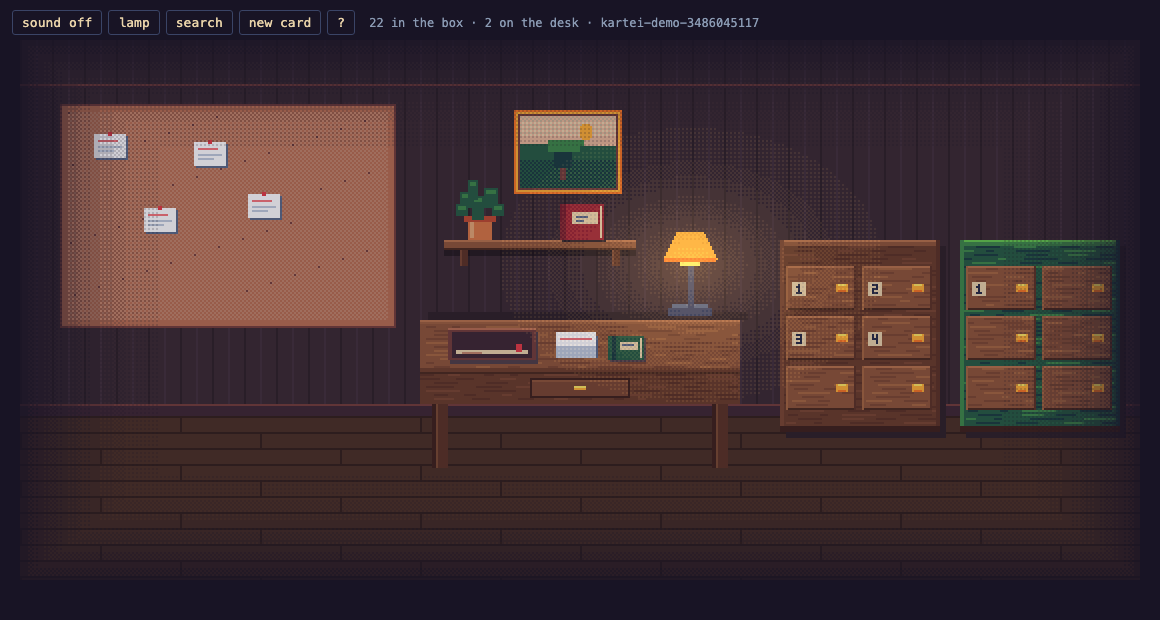
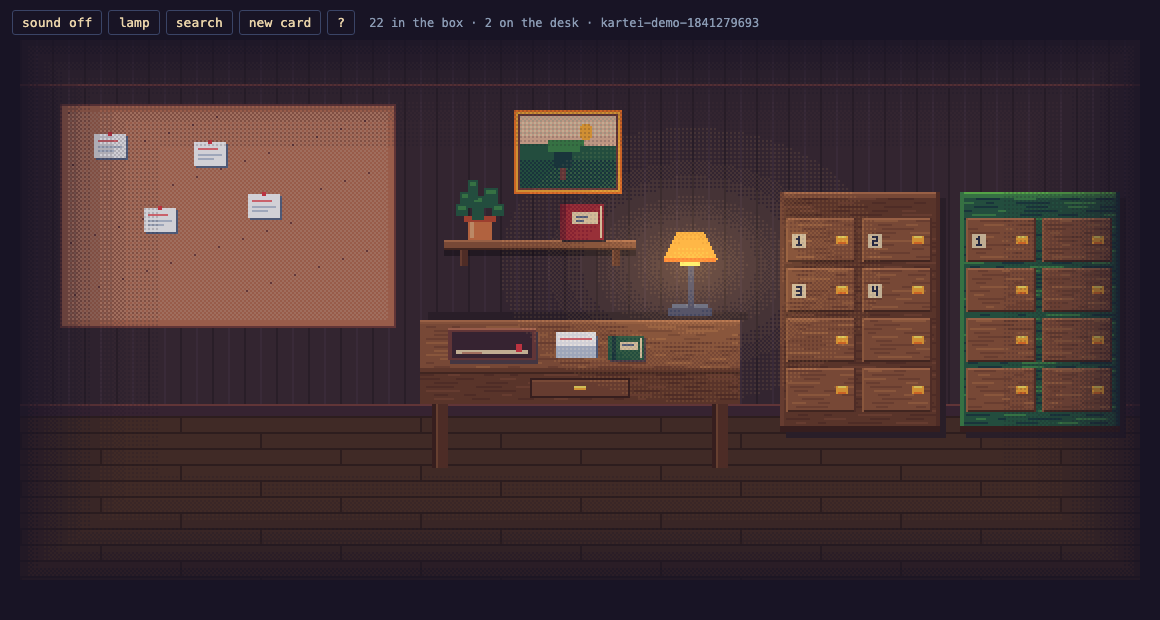
Drawers pack whole branches; eight-drawer boxes; quieter notifications
Small branches share a drawer and a branch bigger than a drawer spills into
parts, so the box count follows card count rather than root count. Boxes
show eight drawers. Toasts only for errors and filing results; read-time
warnings moved into the contents panel.

Changed region(s): [[0.6517, 0.3065, 0.9621, 0.7048], [0.5897, 0.0306, 0.6517, 0.0613]]

diff --git a/ui/app.js b/ui/app.js
@@ -3,7 +3,7 @@
 import { Room, BOARD } from './room.js';
 import { Panel, esc, mini, addrChip, renderBody } from './panel.js';
 import { sound } from './sound.js';
-import { DESK_SPACE } from './art.js';
+import { DESK_SPACE, BOX_DRAWERS } from './art.js';
 import { api } from './api.js';
 
 class App {
@@ -32,7 +32,6 @@ class App {
     const filed = this.model.notes.filter((n) => n.filed).length;
     const hud = document.getElementById('hud-status');
     hud.textContent = `${filed} in the box · ${this.model.unfiled.length} on the desk · ${this.model.root.split('/').pop()}`; hud.title = this.model.root;
-    if (this.model.warnings.length && !this.warned) { this.warned = true; this.toast(`${this.model.warnings.length} warning${this.model.warnings.length === 1 ? '' : 's'} while reading the box (broken links, cycles). Nothing was changed.`); }
     return this.model;
   }
 
@@ -85,9 +84,7 @@ class App {
     const { page, pages } = this.room.nextPage(box);
     if (pages <= 1) { this.openDrawers(); return; }
     sound.drawer(); this.room.closeDrawer();
-    const count = (box === 'main' ? this.room.mainDrawers : this.room.litDrawers).length;
-    const first = page * 6 + 1, last = Math.min(first + 5, count);
-    this.toast(`${box === 'main' ? 'Slip box' : 'Literature box'} ${page + 1} of ${pages}: drawers ${first} to ${last}`, 'ok');
+    this.tooltip(this.room.objects().find((o) => o.kind === (box === 'main' ? 'slipbox' : 'litbox')));
   }
   openDrawers() {
     this.room.highlight = 'slipbox'; this.room.panToObject('slipbox'); this.room.closeDrawer();
@@ -157,7 +154,7 @@ class App {
       else n = await api.newNote(title, body, parent || '');
       sound.save();
       await this.load();
-      this.toast(id ? 'Card updated' : parent ? `Filed behind ${esc(this.byId.get(parent)?.address || '')} as ${n.address}` : 'On the desk. File it when you know where it belongs.', 'ok');
+      if (!id) this.toast(parent ? `Filed behind ${esc(this.byId.get(parent)?.address || '')} as ${n.address}` : 'On the desk. File it when you know where it belongs.', 'ok');
       this.openCard(n.id);
     } catch (e) {
       if (e.status === 409 && e.data?.conflict) { this.conflict({ id, title, body, seen }, e.data.disk); return; }
@@ -172,7 +169,7 @@ class App {
       <h3 style="font:600 11px var(--mono);color:var(--ink-2);text-transform:uppercase">Yours, unsaved</h3><pre>${esc(mine.body)}</pre>
       <div class="actions"><button class="primary" data-c="mine">Keep mine</button><button data-c="theirs">Keep the disk version</button><button data-c="both">Keep both</button></div></div>`);
     this.overlay.querySelector('[data-c="mine"]').onclick = () => { this.closeOverlay(); this.saveCard(mine, true); };
-    this.overlay.querySelector('[data-c="theirs"]').onclick = async () => { this.closeOverlay(); await this.load(); this.openCard(mine.id); this.toast('Kept the disk version', 'ok'); };
+    this.overlay.querySelector('[data-c="theirs"]').onclick = async () => { this.closeOverlay(); await this.load(); this.openCard(mine.id); };
     this.overlay.querySelector('[data-c="both"]').onclick = async () => {
       this.closeOverlay();
       try { await api.newNote(mine.title + ' (my version)', mine.body, ''); await this.load(); this.openCard(mine.id); this.toast('Kept the disk version; yours is a new card on the desk', 'ok'); } catch (e) { this.toast(e.message); }
@@ -211,7 +208,7 @@ class App {
     const terms = this.model.register.map((e) => e.term);
     const term = await this.ask({ title: 'Enter in the register', text: 'Under which term, in your own words?', placeholder: 'term', suggestions: terms, ok: 'Enter' });
     if (!term) return;
-    try { await api.registerAdd(term, id); sound.paper(); await this.load(); this.panel.refresh(); this.toast(`In the register under "${esc(term)}"`, 'ok'); } catch (e) { this.toast(e.message); }
+    try { await api.registerAdd(term, id); sound.paper(); await this.load(); this.panel.refresh(); } catch (e) { this.toast(e.message); }
   }
   async registerAddTerm(term) {
     try { await api.registerAdd(term); await this.load(); this.panel.refresh(); } catch (e) { this.toast(e.message); }
@@ -367,7 +364,7 @@ class App {
     const b = this.model.boards.find((x) => x.id === bid);
     const n = b.cards.length;
     const x = 40 + (n % 4) * 280 + (n * 13) % 30, y = 40 + Math.floor(n / 4) * 240 % (BOARD.h - 120);
-    try { await api.pin(bid, id, x, y); sound.pin(); await this.load(); this.activeBoard = bid; this.room.setModel(this.model, bid); this.panel.refresh(); this.toast(`Pinned to ${b.name}. It stays in its drawer.`, 'ok'); }
+    try { await api.pin(bid, id, x, y); sound.pin(); await this.load(); this.activeBoard = bid; this.room.setModel(this.model, bid); this.panel.refresh(); }
     catch (e) { this.toast(e.message); }
   }
   async movePin(bid, id, x, y) { try { await api.pin(bid, id, x, y); sound.pin(); await this.load(); this.room.setModel(this.model, bid); } catch (e) { this.toast(e.message); } }
@@ -426,7 +423,7 @@ class App {
   }
   help() {
     this.sheet(`<h2>The study</h2>
-      <p><b>The desk</b> is the inbox: a card you write from the pad, or in any other editor, lies there with no address. <b>Filing</b> puts it in the box: choose the card it sits <i>behind</i> (a branch off it) or <i>after</i> (next in its line). That decision gives it an address like 2b1 and a drawer, and clears it from the desk. <b>Drawers</b> are one per branch; click one to open it. <b>Links</b> in the text say what a card mentions, filing says where it grew from. The <b>ledger</b> is your register: a term, then the drawers where it lives. The <b>corkboard</b> pins references for a project.</p>
+      <p><b>The desk</b> is the inbox: a card you write from the pad, or in any other editor, lies there with no address. <b>Filing</b> puts it in the box: choose the card it sits <i>behind</i> (a branch off it) or <i>after</i> (next in its line). That decision gives it an address like 2b1 and a drawer, and clears it from the desk. <b>Drawers</b> fill in address order, a whole branch at a time; click one to open it. <b>Links</b> in the text say what a card mentions, filing says where it grew from. The <b>ledger</b> is your register: a term, then the drawers where it lives. The <b>corkboard</b> pins references for a project.</p>
       <table>
         <tr><td><kbd>/</kbd></td><td>search</td><td><kbd>n</kbd></td><td>new card</td></tr>
         <tr><td><kbd>s</kbd></td><td>slip box</td><td><kbd>b</kbd></td><td>corkboard</td></tr>
@@ -442,7 +439,7 @@ class App {
     const host = document.getElementById('toasts');
     while (host.children.length >= 3) host.firstChild.remove();
     host.appendChild(t);
-    setTimeout(() => t.remove(), 3600);
+    setTimeout(() => t.remove(), 2800);
   }
 
   // --- prefs ---

diff --git a/ui/panel.js b/ui/panel.js
@@ -92,11 +92,12 @@ export class Panel {
     const last = m.prefs?.lastDrawer;
     return `<div class="panel-top"><h2>Contents</h2>${this.close()}</div>
       <div class="meta">${total} cards filed · ${m.drawers.length} drawer${m.drawers.length === 1 ? '' : 's'} · ${m.settings.drawerSize} cards per drawer</div>
+      ${m.warnings.length ? `<div class="meta">${m.warnings.length} warning${m.warnings.length === 1 ? '' : 's'} while reading the box (broken links, cycles). Nothing was changed.</div>` : ''}
       ${m.incomplete ? '<div class="warn">This folder looks incomplete (many placed cards are missing). Nothing will be rewritten until it looks whole again.</div>' : ''}
       ${m.unfiled.length ? `<div class="banner">${m.unfiled.length} card${m.unfiled.length === 1 ? ' is' : 's are'} on the desk, not yet in the box. <a class="wl" data-act="desk">See them</a>.</div>` : ''}
       ${m.boxes.map((b) => { const ds = m.drawers.filter((d) => d.box === b.id && !d.unsorted); return `<div class="boxhead">${esc(b.name)}${b.prefix ? ` · addresses ${esc(b.prefix)}1, ${esc(b.prefix)}1a…` : ''}</div>` + (ds.map((d) => `<div class="drawer-front" data-drawer="${d.index}"><span class="label">${esc(d.label)}</span><span class="count">${d.ids.length} card${d.ids.length === 1 ? '' : 's'}${last === d.index ? ' · last opened' : ''}</span></div>`).join('') || '<p class="empty">Empty. File a card as a new branch here to start it.</p>'); }).join('')}
       ${m.drawers.filter((d) => d.unsorted).map((d) => `<div class="boxhead">Unsorted</div><div class="drawer-front unsorted" data-drawer="${d.index}"><span class="label">${esc(d.label)}</span><span class="count">${d.ids.length} card${d.ids.length === 1 ? '' : 's'}</span></div>`).join('')}
-      <p class="empty" style="margin-top:14px">${m.settings.drawerRule === 'address-range' ? 'Drawers are chunks of one continuous sequence, not topics.' : 'One drawer per branch. A branch that outgrows its drawer spills into the next.'}</p>`;
+      <p class="empty" style="margin-top:14px">${m.settings.drawerRule === 'address-range' ? 'Drawers are chunks of one continuous sequence, not topics.' : 'Drawers fill in address order, a whole branch at a time. Small branches share a drawer; one that outgrows a drawer spills into the next.'}</p>`;
   }
 
   drawer(i) {
@@ -106,7 +107,7 @@ export class Panel {
     const byId = this.app.byId;
     return `${this.crumbs([{ text: 'Slip box', act: 'drawers' }, { text: drawerName(d, m) }])}
       <div class="panel-top"><h2>${esc(d.unsorted ? 'Unsorted' : d.label)}</h2>${this.close()}</div>
-      <div class="meta">${d.ids.length} card${d.ids.length === 1 ? '' : 's'}${d.first ? ` · ${esc(d.first)} to ${esc(d.last)}` : ''}${d.unsorted ? ' · guests and damaged notes live here until adopted' : ''}</div>
+      <div class="meta">${d.ids.length} card${d.ids.length === 1 ? '' : 's'}${d.roots > 1 ? ` · ${d.roots} branches` : ''}${d.first ? ` · ${esc(d.first)} to ${esc(d.last)}` : ''}${d.unsorted ? ' · guests and damaged notes live here until adopted' : ''}</div>
       <div class="fan">${d.ids.map((id) => mini(byId.get(id))).join('') || '<p class="empty">Empty drawer.</p>'}</div>`;
   }
 

diff --git a/ui/art.js b/ui/art.js
@@ -32,8 +32,8 @@ export const L = {
   lamp:    { x: 318, y: 96,  w: 34,  h: 44 },
   lampGlow: { x: 335, y: 112 },
   ledger:  { x: 294, y: 148, w: 18,  h: 12 },   // the register: your own index of terms
-  boxMain: { x: 380, y: 100, w: 80,  h: 96 },   // the slip box for notes, on the floor against the wall
-  boxLit:  { x: 470, y: 100, w: 80,  h: 96 },   // the slip box for literature, green
+  boxMain: { x: 380, y: 76,  w: 80,  h: 120 },  // the slip box for notes, on the floor against the wall
+  boxLit:  { x: 470, y: 76,  w: 80,  h: 120 },  // the slip box for literature, green
 };
 
 // Desk-card positions are stored in this logical space (the old room desk,
@@ -248,11 +248,11 @@ export function drawDigits(ctx, x, y, text, color) {
 }
 export const digitsWidth = (text) => String(text).length * 4 - 1;
 
-// A slip box: a fixed card-index box with six drawer fronts, two across and
-// three down. Past six drawers the archive is more boxes: page k shows
-// drawers 6k..6k+5, and pips on the lid say which box you are looking at.
+// A slip box: a fixed card-index box with eight drawer fronts, two across and
+// four down. Past eight drawers the archive is more boxes: page k shows the
+// next eight, and pips on the lid say which box you are looking at.
 // Returns the drawer rects so each front is clickable.
-export const BOX_DRAWERS = 6;
+export const BOX_DRAWERS = 8;
 export const boxPages = (n) => Math.max(1, Math.ceil(n / BOX_DRAWERS));
 export function drawSlipbox(ctx, r, drawers, page, openSlot, openAmt, highlight, green) {
   const pages = boxPages(drawers.length);

diff --git a/internal/slipbox/drawer.go b/internal/slipbox/drawer.go
@@ -5,10 +5,13 @@ import (
 	"sort"
 )
 
-// Drawer rules. "branch" gives every root branch its own drawer, so the
-// drawer answers "where is it". "address-range" chunks the whole sequence
-// into equal drawers, which is how Luhmann's boxes actually worked: a drawer
-// is a stretch of the sequence, not a topic.
+// Drawer rules. "branch" fills drawers in address order a whole branch at a
+// time: small branches share a drawer, a branch never straddles two drawers
+// unless it alone is bigger than one, and then it spills into parts. So a
+// drawer answers "where is it" without the drawer count tracking the root
+// count. "address-range" chunks the whole sequence into equal drawers, which
+// is how Luhmann's boxes actually worked: a drawer is a stretch of the
+// sequence, not a topic.
 const (
 	RuleBranch = "branch"
 	RuleRange  = "address-range"
@@ -21,8 +24,9 @@ type Drawer struct {
 	Box      string `json:"box"`
 	Number   int    `json:"number"` // 1-based within its box; 0 for Unsorted
 	Label    string `json:"label"`
-	Title    string `json:"title"` // the root's title (branch rule) or the range
-	Root     ID     `json:"root"`
+	Title    string `json:"title"` // the first root's title (branch rule) or the range
+	Root     ID     `json:"root"`  // the first root in the drawer
+	Roots    int    `json:"roots"` // how many branches share the drawer
 	Part     int    `json:"part"`
 	Parts    int    `json:"parts"`
 	First    string `json:"first"`
@@ -48,15 +52,18 @@ func deriveDrawers(notes map[ID]*Note, d derived, boxes []Box, rule string, size
 	var drawers []Drawer
 	for _, box := range boxes {
 		number := 0
-		add := func(title string, root ID, parts [][]ID) {
+		add := func(title string, root ID, roots int, parts [][]ID) {
 			for i, ids := range parts {
 				number++
 				dr := Drawer{
-					Index: len(drawers), Box: box.ID, Number: number, Title: title, Root: root,
+					Index: len(drawers), Box: box.ID, Number: number, Title: title, Root: root, Roots: roots,
 					Part: i + 1, Parts: len(parts), First: d.addr[ids[0]], Last: d.addr[ids[len(ids)-1]],
 					IDs: cloneSlice(ids),
 				}
 				dr.Label = fmt.Sprintf("%d · %s", number, title)
+				if roots > 1 {
+					dr.Label += fmt.Sprintf(" + %d more", roots-1)
+				}
 				if len(parts) > 1 {
 					dr.Label += fmt.Sprintf(" (%d of %d)", dr.Part, dr.Parts)
 				}
@@ -72,9 +79,19 @@ func deriveDrawers(notes map[ID]*Note, d derived, boxes []Box, rule string, size
 			}
 			sort.Slice(sorted, func(i, j int) bool { return CompareAddress(d.addr[sorted[i]], d.addr[sorted[j]]) < 0 })
 			for _, ids := range chunk(sorted, size) {
-				add(fmt.Sprintf("%s – %s", d.addr[ids[0]], d.addr[ids[len(ids)-1]]), "", [][]ID{ids})
+				add(fmt.Sprintf("%s – %s", d.addr[ids[0]], d.addr[ids[len(ids)-1]]), "", 0, [][]ID{ids})
 			}
 		} else {
+			// Pack whole branches into drawers in address order.
+			var cur []ID
+			var curRoot ID
+			curRoots := 0
+			flush := func() {
+				if len(cur) > 0 {
+					add(notes[curRoot].Title, curRoot, curRoots, [][]ID{cur})
+				}
+				cur, curRoot, curRoots = nil, "", 0
+			}
 			for _, root := range d.roots[box.ID] {
 				var branch []ID
 				var walk func(id ID)
@@ -85,8 +102,21 @@ func deriveDrawers(notes map[ID]*Note, d derived, boxes []Box, rule string, size
 					}
 				}
 				walk(root)
-				add(notes[root].Title, root, chunk(branch, size))
+				if len(branch) > size { // too big for any drawer: its own parts
+					flush()
+					add(notes[root].Title, root, 1, chunk(branch, size))
+					continue
+				}
+				if len(cur)+len(branch) > size {
+					flush()
+				}
+				if len(cur) == 0 {
+					curRoot = root
+				}
+				cur = append(cur, branch...)
+				curRoots++
 			}
+			flush()
 		}
 		if number == 0 && box.ID == boxes[0].ID {
 			drawers = append(drawers, Drawer{Index: len(drawers), Box: box.ID, Number: 1, Label: "1 · Empty", Title: "Empty", IDs: []ID{}})

diff --git a/internal/slipbox/drawer_test.go b/internal/slipbox/drawer_test.go
@@ -5,25 +5,26 @@ import (
 	"testing"
 )
 
-func TestDrawersAreBranches(t *testing.T) {
+func TestDrawersPackWholeBranches(t *testing.T) {
 	v := openFixture(t, "fixture-small")
+	// three small branches (5, 4 and 3 cards) share one drawer at the default size
 	ds := v.Drawers()
-	if len(ds) != 3 {
-		t.Fatalf("expected one drawer per branch, got %d: %+v", len(ds), ds)
+	if len(ds) != 1 || ds[0].Label != "1 · Systems fail under load + 2 more" || ds[0].Roots != 3 || ds[0].First != "1" || ds[0].Last != "3b" || len(ds[0].IDs) != 12 {
+		t.Fatalf("packed drawer: %+v", ds)
 	}
-	if ds[0].Label != "1 · Systems fail under load" || ds[1].Label != "2 · Luhmann on selection" || ds[2].Label != "3 · Notes on redundancy" {
-		t.Fatalf("labels: %q %q %q", ds[0].Label, ds[1].Label, ds[2].Label)
-	}
-	if ds[0].Number != 1 || ds[0].Root != "20240101T100000" || ds[0].First != "1" || ds[0].Last != "1b2" {
-		t.Fatalf("drawer 1: %+v", ds[0])
-	}
-	if !reflect.DeepEqual(ds[0].IDs, []ID{"20240101T100000", "20240105T100000", "20240102T100000", "20240103T100000", "20240104T100000"}) {
+	if ds[0].Root != "20240101T100000" || !reflect.DeepEqual(ds[0].IDs[:5], []ID{"20240101T100000", "20240105T100000", "20240102T100000", "20240103T100000", "20240104T100000"}) {
 		t.Fatalf("drawer 1 order = %v", ds[0].IDs)
 	}
-	// a branch that outgrows a drawer spills into a second part
+	// a drawer of five: the first branch fills it, the next two share the second
+	v.SetSettings(Settings{DrawerRule: RuleBranch, DrawerSize: 5})
+	ds = v.Drawers()
+	if len(ds) != 3 || ds[0].Label != "1 · Systems fail under load" || ds[1].Label != "2 · Luhmann on selection" || ds[2].Label != "3 · Notes on redundancy" {
+		t.Fatalf("size 5: %+v", ds)
+	}
+	// a branch that outgrows a drawer spills into parts, never straddling another branch
 	v.SetSettings(Settings{DrawerRule: RuleBranch, DrawerSize: 3})
 	ds = v.Drawers()
-	if len(ds) != 5 || ds[0].Parts != 2 || ds[1].Part != 2 || ds[1].Label != "2 · Systems fail under load (2 of 2)" || ds[2].Label != "3 · Luhmann on selection (1 of 2)" {
+	if len(ds) != 5 || ds[0].Parts != 2 || ds[1].Part != 2 || ds[1].Label != "2 · Systems fail under load (2 of 2)" || ds[2].Label != "3 · Luhmann on selection (1 of 2)" || ds[4].Label != "5 · Notes on redundancy" {
 		t.Fatalf("spill: %+v", ds)
 	}
 	for _, d := range ds {

diff --git a/internal/slipbox/doc.go b/internal/slipbox/doc.go
@@ -17,7 +17,7 @@
 //     structure stored; everything else is derived.
 //   - An address (1b3, or L2a in the literature box) is derived from the tree
 //     at load time and never written anywhere but _index.md.
-//   - A drawer is a physical chunk of a box: one per root branch by default,
+//   - A drawer is a physical chunk of a box: filled a whole branch at a time by default,
 //     or equal chunks of the address sequence under the address-range rule.
 //   - Links are [[wikilinks]] in the body, written by the user, resolved by
 //     ID, slug, title or address. They cross boxes freely.

diff --git a/cmd/kartei/demo.go b/cmd/kartei/demo.go
@@ -108,7 +108,7 @@ func seedDemo(dir string) error {
 			{Term: "load", Targets: []slipbox.ID{ids[5], ids[9]}, Note: "systems under stress"},
 			{Term: "Luhmann", Targets: []slipbox.ID{ids[22], ids[23], ids[19]}, Note: ""},
 		},
-		"settings": slipbox.Settings{DrawerRule: slipbox.RuleBranch, DrawerSize: 60, DeskCapacity: 12},
+		"settings": slipbox.Settings{DrawerRule: slipbox.RuleBranch, DrawerSize: 5, DeskCapacity: 12}, // five a drawer, so the demo shows one drawer per branch
 		"prefs":    map[string]any{"lamp": true},
 	}
 	data, err := jsonIndent(st)

diff --git a/internal/slipbox/vault_test.go b/internal/slipbox/vault_test.go
@@ -153,7 +153,7 @@ func TestLiteratureBox(t *testing.T) {
 			main++
 		}
 	}
-	if lit != 1 || main != 3 {
+	if lit != 1 || main != 1 { // three small main branches share one drawer
 		t.Fatalf("drawers per box: lit %d main %d", lit, main)
 	}
 	// moving a card from one box to the other renumbers both root lists

diff --git a/SPEC.md b/SPEC.md
@@ -165,9 +165,11 @@ and still lives in its drawer.
   Siblings by `order`, then ID. Natural sort (`1a9` before `1a10`). Cycles are
   broken by promoting the lowest ID to a root, with a warning. An entry whose
   parent is missing makes the note a root.
-- **Drawers:** `settings.drawerRule` chooses. `branch` (default): one drawer
-  per root branch, in address order, numbered on the front and titled by the
-  root; a branch past `drawerSize` spills into consecutive parts.
+- **Drawers:** `settings.drawerRule` chooses. `branch` (default): drawers fill
+  in address order a whole branch at a time, up to `drawerSize` cards; small
+  branches share a drawer, and a branch bigger than a drawer spills into
+  consecutive parts on its own. Titled by the first root, with "+ n more"
+  when branches share.
   `address-range`: the whole sequence chunked into equal drawers, Luhmann's
   non-topical boxes, for those who want them. Guests and damaged notes go to
   a final Unsorted drawer. Drawer identity is positional and never persisted.
@@ -205,7 +207,7 @@ and still lives in its drawer.
   for 2s, an empty read is never a deletion, a rename that keeps the ID keeps
   every placement. One changed file reparses one file.
 - **Stage** (derived): drawer count 1 → box, 2–3 → double, 4–9 → cabinet, 10+
-  → wall. Informational; the room draws boxes of six drawers instead (§7).
+  → wall. Informational; the room draws boxes of eight drawers instead (§7).
 - **Rediscover** (derived): one card a day, deterministic, chosen from cards
   not on the desk or any board. Empty if fewer than three notes.
 
@@ -261,7 +263,7 @@ pan. Text is never pixel art: the panel is DOM.
 
 | Surface | Meaning | Rules |
 |---|---|---|
-| **Slip box** | The archive | A wooden card-index box with six drawer fronts, two across and three down, standing against the wall right of the desk. Each front carries its drawer number and nothing else; click it and it slides open. Past six drawers the archive is more boxes: click the box body to turn to the next, and pips on the lid say which of how many is showing. Opening a drawer from the panel turns to its box. |
+| **Slip box** | The archive | A wooden card-index box with eight drawer fronts, two across and four down, standing against the wall right of the desk. Each front carries its drawer number and nothing else; click it and it slides open. Past eight drawers the archive is more boxes: click the box body to turn to the next, and pips on the lid say which of how many is showing. Opening a drawer from the panel turns to its box. |
 | **Literature box** | The second box | A green box beside the first, same fronts, same pages. Sources go here as roots (`L1`), excerpts behind them. |
 | **Desk** | The inbox | A tray holding the unfiled cards as one stack (red tab: a card slipped out today; orange pip: past the cap), a stack of blank cards, the register, the lamp. Click the desk or the tray for the top-down view, where the cards are laid out in full; drag them where you like and positions persist. |
 | **Blank cards** | New card | A fresh card lands on the desk unfiled. No address until it is filed. |
@@ -283,7 +285,7 @@ there by a decision about what it relates to.
 
 ### Game loops
 
-1. **Growth.** Past six drawers the slip box becomes a stack of boxes, shown
+1. **Growth.** Past eight drawers the slip box becomes a stack of boxes, shown
    as pips on the lid. Free, because drawers are derived. Later: objects and
    themes unlock by cards filed and days active, never by time spent.
 2. **Rediscovery.** The box surfaces an old card. This is the real value of a
@@ -368,8 +370,9 @@ building this". If a picture of the idea gets shrugs, the app will too.
 - Should writing behind a card also be a two-step (write, then file), for
   consistency with the pad? Current answer: no, pulling the card was the choice.
 - Deferred trust feature, next in line: per-card history with restore.
-- Drawers as branches nudge toward a root per subject. Watch whether users
-  create many roots; the address-range rule is the fallback.
+- Drawers now pack whole branches, so the box count follows card count
+  rather than root count. Watch whether "+ n more" drawers feel like topics
+  or like stretches; the address-range rule is still the fallback.
 - Does pulling a second card replace the first in the panel (current) or lay
   beside it as a trail across the desk?
 - Default `drawerSize` beyond 60. Real use will take months to fill a
@@ -394,5 +397,5 @@ building this". If a picture of the idea gets shrugs, the app will too.
 | **Register** | User-written index of terms to cards |
 | **Guest** | A file in the vault the app did not create |
 | **Damaged** | A note whose frontmatter failed to parse. Shown, never rewritten |
-| **Stage** | The engine's size class for the main box (box, double, cabinet, wall); the room shows boxes of six drawers instead |
+| **Stage** | The engine's size class for the main box (box, double, cabinet, wall); the room shows boxes of eight drawers instead |
 | **Sidecar** | `.kartei/state.json`: all structure, placement and UI traces |

diff --git a/README.md b/README.md
@@ -8,8 +8,6 @@ editable in any other tool, and the room updates as you save.
 
 ![The study by day: corkboard, desk with the inbox tray, two slip boxes](docs/screenshots/room.png)
 
-![The same room at night, lit by the lamp](docs/screenshots/room-night.png)
-
 `SPEC.md` is the current design. `docs/UI-GUIDE.md` is the contract for
 anyone building another front end on the engine.
 
@@ -101,7 +99,7 @@ lies here with a red tab. "Put it away" hides it until tomorrow.
 
 | Object | What it does |
 |---|---|
-| Slip box | Six numbered drawers to a box. Past six the archive is more boxes: click the box to turn to the next; pips on the lid say which one is showing. Click a drawer to open it. |
+| Slip box | Eight numbered drawers to a box. Past eight the archive is more boxes: click the box to turn to the next; pips on the lid say which one is showing. Click a drawer to open it. |
 | Literature box | The green box beside it, for sources (`L1`) and their excerpts (`L1a`). Works the same way. |
 | Inbox tray | The unfiled cards as one stack. Red tab: a card slipped out today. Orange pip: past twelve. Click for the desk view. |
 | Blank cards | A new card. |
@@ -145,8 +143,9 @@ If you have never kept a slip box, this is the idea in six points.
 3. **Filing is not linking.** The tree says where a card *grew from*. A
    `[[link]]` in the text says what it *mentions*, anywhere in either box.
    Links are written by ID, so they survive renames and refiling.
-4. **Drawers.** One per branch, numbered on the front. A branch that outgrows
-   its drawer spills into the next. The contents are also written to
+4. **Drawers.** Filled in address order a whole branch at a time, numbered on
+   the front. Small branches share a drawer; a branch that outgrows its drawer
+   spills into the next. A drawer is a stretch of the sequence, not a topic. The contents are also written to
    `_index.md` in the vault, so the structure is readable in any editor and can
    be rebuilt from it if the sidecar is ever lost.
 5. **Two boxes.** Luhmann kept a separate bibliographic box. The green one is

diff --git a/docs/UI-GUIDE.md b/docs/UI-GUIDE.md
@@ -93,7 +93,7 @@ What to draw from it:
 
 | Room object | Source |
 |---|---|
-| Slip box and its drawer fronts | `drawers` where `box` is the first of `boxes`; the bundled room shows six per box and pages past that |
+| Slip box and its drawer fronts | `drawers` where `box` is the first of `boxes`; the bundled room shows eight per box and pages past that |
 | Literature box | `drawers` where `box == "lit"` |
 | Number on each drawer | `number`; the `title` belongs in a contents list, not on the front |
 | Size class, if you want one | `stage`: box, double, cabinet, wall, from the main box's drawer count |
